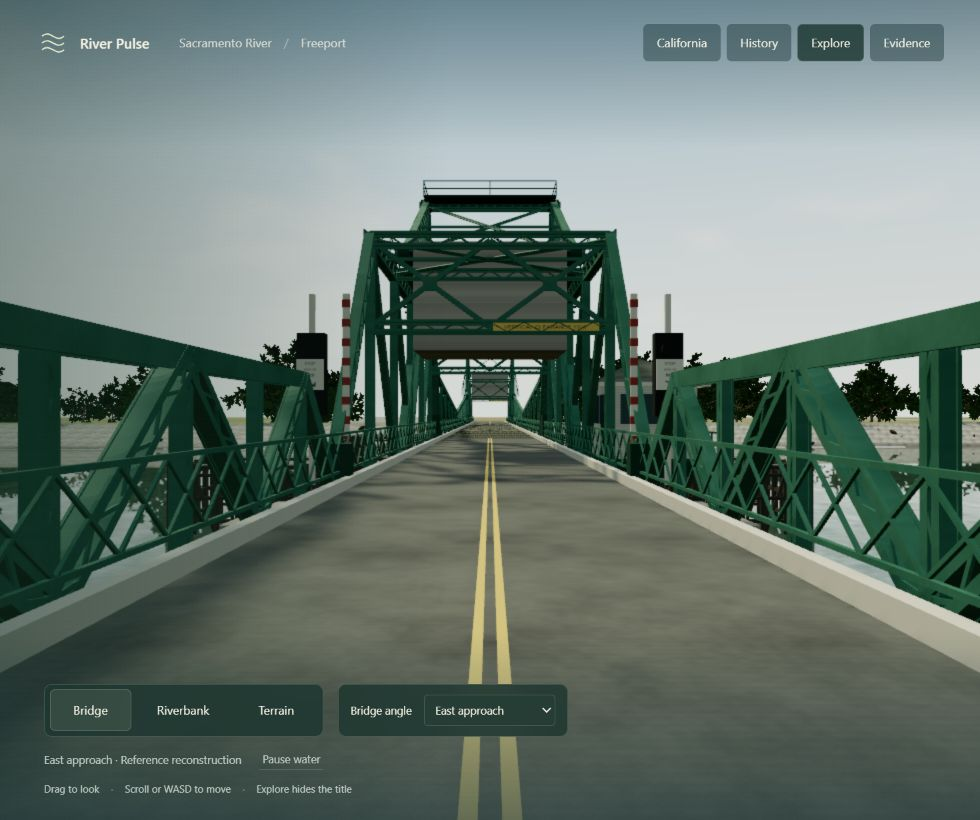
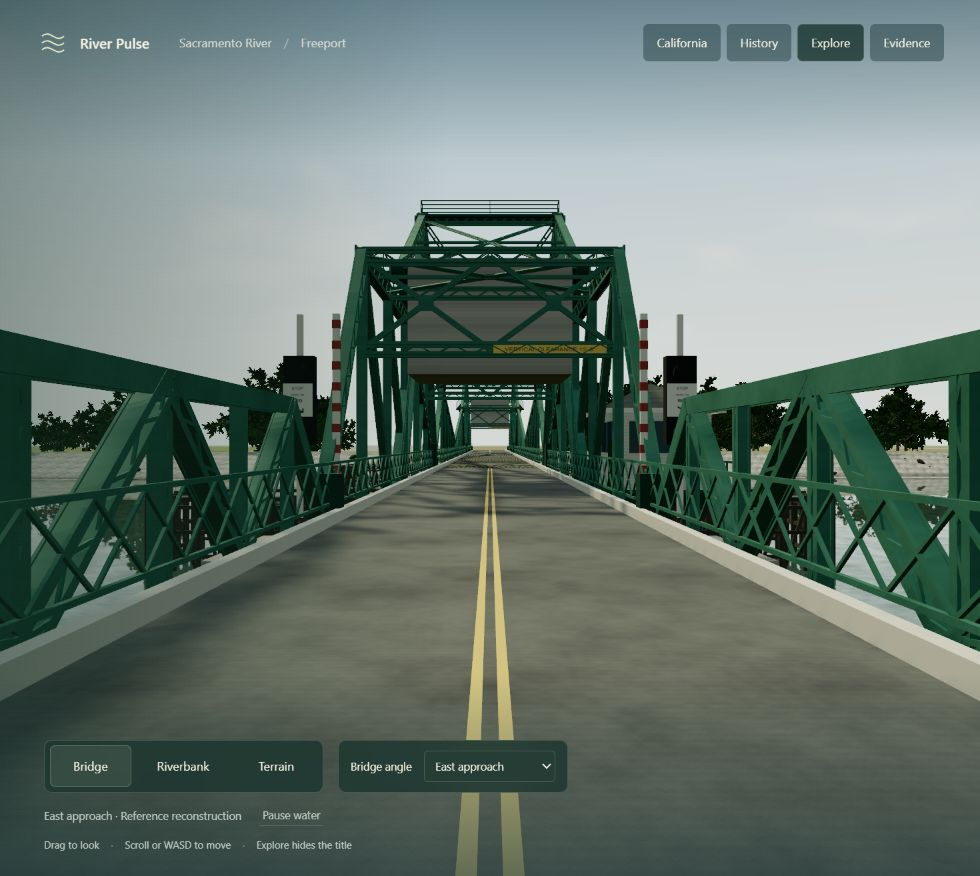
RP15: Correct Freeport upper-link connections

diff --git a/river-pulse/renderer/freeport-bridge.js b/river-pulse/renderer/freeport-bridge.js
@@ -1,6 +1,6 @@
 import * as THREE from "../../vendor/three/three.webgpu.js";
 import { color, mix, positionLocal, smoothstep, texture, vec2 } from "../../vendor/three/three.tsl.js";
-import { FREEPORT_BRIDGE as B } from "./freeport-bridge-layout.js";
+import { FREEPORT_BRIDGE as B, freeportBasculeJoints } from "./freeport-bridge-layout.js";
 
 // One shared, fully three-dimensional closed bridge for every viewpoint.
 // Horizontal envelope follows archived NBI; unsourced sections/heights are photo fits.
@@ -93,7 +93,7 @@ export function createFreeportBridge() {
     for (let i = -1; i <= 1; i++) for (let j = -1; j <= 1; j++)
       pin(x + i * size * 0.31, y + j * size * 0.31, z + 0.034, 0.023, 0.025);
   }
-  function crossBracing(x0, x1, y0, y1) {
+  function crossBracing(x0, x1, y0, y1, header = true) {
     const normal = new THREE.Vector3(y0 - y1, x1 - x0, 0).normalize(),
       along = new THREE.Vector3(x1 - x0, y1 - y0, 0).normalize(),
       middle = [(x0 + x1) / 2, (y0 + y1) / 2, 0];
@@ -117,7 +117,7 @@ export function createFreeportBridge() {
       shape(cylinderGeometry, new THREE.Vector3(...middle).addScaledVector(along, x)
         .addScaledVector(normal, 0.05).add(new THREE.Vector3(0, 0, z)).toArray(), [0.027, 0.035, 0.027],
         new THREE.Quaternion().setFromUnitVectors(up, normal), darkSteel);
-    laced([x0, y0, -B.trussZ], [x0, y0, B.trussZ], 0.34, 0.18, 0.55, Math.PI / 2);
+    if (header) laced([x0, y0, -B.trussZ], [x0, y0, B.trussZ], 0.34, 0.18, 0.55, Math.PI / 2);
   }
   function rail(x0, x1, z, material = steel) {
     for (const y of [B.deckY + 0.32, B.deckY + 1.23]) beam([x0, y, z], [x1, y, z], 0.065, 0.065, material);
@@ -153,6 +153,7 @@ export function createFreeportBridge() {
 
   for (const side of [-1, 1]) {
     const h = side * hinge, outer = side * fixedEnd, n = 6,
+      joints = freeportBasculeJoints(side),
       xAt = i => h + side * B.fixedSpan * i / n,
       // Sloping portal posts at each end; the counterweight frame rises above this.
       topAt = i => i === 0 || i === n ? B.deckY : B.fixedTop;
@@ -169,10 +170,16 @@ export function createFreeportBridge() {
         gusset(x0, B.deckY, z + Math.sign(z) * 0.15);
         if (i > 0) gusset(x0, B.fixedTop, z + Math.sign(z) * 0.15);
       }
-      // Each leaf is a separate tapered Pratt cantilever, low at the center joint.
-      const leafPanels = 6, leafTop = i => B.deckY + 4.5 - 2.7 * i / leafPanels;
+      // The leaf rises from its heel to a forward head joint, then tapers to
+      // the center. Both the tower link and counterweight arm meet that head.
+      const leafPanels = 5, head = joints.forward, rear = joints.rear,
+        leafTop = i => head.y + (B.deckY + 1.8 - head.y) * i / leafPanels,
+        leafX = i => head.x * (1 - i / leafPanels);
+      laced([h, B.deckY, z], [head.x, head.y, z], 0.55, 0.32);
+      laced([h, B.deckY, z], [rear.x, rear.y, z], 0.5, 0.3);
+      laced([rear.x, rear.y, z], [head.x, head.y, z], 0.55, 0.33);
       for (let i = 0; i < leafPanels; i++) {
-        const a = h * (1 - i / leafPanels), b = h * (1 - (i + 1) / leafPanels);
+        const a = leafX(i), b = leafX(i + 1);
         girder([a, leafTop(i), z], [b, leafTop(i + 1), z], 0.35, 0.22);
         laced([a, B.deckY, z], [a, leafTop(i), z], 0.25, 0.18);
         laced([a, leafTop(i), z], [b, B.deckY, z], 0.3, 0.18);
@@ -180,13 +187,14 @@ export function createFreeportBridge() {
       }
       laced([side * 0.045, B.deckY, z], [side * 0.045, leafTop(leafPanels), z], 0.22, 0.2);
       // Triangular fixed tower and articulated heel-trunnion upper links.
-      const toe = h + side * 1.1, peak = h + side * 8.6, tail = h + side * 22.4,
-        weightPin = h + side * 20.5;
+      const toe = joints.towerToe.x, peak = joints.crest.x, tail = joints.towerTail.x,
+        weightPin = rear.x;
       laced([toe, B.deckY, z], [peak, B.towerTop, z], 0.68, 0.36, 0.65);
       laced([tail, B.deckY, z], [peak, B.towerTop, z], 0.54, 0.32, 0.65);
-      laced([toe, B.deckY + 4.5, z], [weightPin, 15.2, z], 0.55, 0.33);
-      laced([peak, B.towerTop, z], [weightPin, 15.2, z], 0.58, 0.34);
-      for (const [x, y, r] of [[h, B.deckY + 0.2, 0.53], [toe, B.deckY + 4.5, 0.42], [peak, B.towerTop, 0.4], [weightPin, 15.2, 0.5]]) {
+      laced([peak, joints.crest.y, z], [weightPin, rear.y, z], 0.58, 0.34);
+      laced([peak, joints.crest.y, z], [head.x, head.y, z], 0.58, 0.34);
+      for (const [x, y, r] of [[h, B.deckY + 0.2, 0.53], [head.x, head.y, 0.42], [peak, joints.crest.y, 0.4], [weightPin, rear.y, 0.5]]) {
+        gusset(x, y, z + Math.sign(z) * 0.18, r * 1.8);
         pin(x, y, z, r, 0.65); pin(x, y, z + Math.sign(z) * 0.4, r * 0.68, 0.08, steel);
       }
       // The rack strut rises from machinery beside the main hinge.
@@ -195,13 +203,13 @@ export function createFreeportBridge() {
       box(h + side * 3, B.deckY + 0.9, z, 2.3, 1.5, 0.72, darkSteel);
       // Catwalk steps, handrails and maintenance ladder follow the upper link.
       for (let i = 0; i <= 24; i++) {
-        const t = i / 24, x = toe + side * 19.4 * t, y = B.deckY + 4.5 + 4.5 * t;
+        const t = i / 24, x = head.x + (rear.x - head.x) * t, y = head.y + (rear.y - head.y) * t;
         box(x, y, z + Math.sign(z) * 0.5, 0.45, 0.06, 0.65, darkSteel);
       }
-      beam([toe, B.deckY + 5.5, z + Math.sign(z) * 0.72], [weightPin, 16.2, z + Math.sign(z) * 0.72], 0.055);
+      beam([head.x, head.y + 1, z + Math.sign(z) * 0.72], [weightPin, rear.y + 1, z + Math.sign(z) * 0.72], 0.055);
       for (let i = 0; i < 9; i++) {
-        const t = i / 8; beam([toe + side * 19.4 * t, B.deckY + 4.5 + 4.5 * t, z + Math.sign(z) * 0.72],
-          [toe + side * 19.4 * t, B.deckY + 5.5 + 4.5 * t, z + Math.sign(z) * 0.72], 0.045);
+        const t = i / 8, x = head.x + (rear.x - head.x) * t, y = head.y + (rear.y - head.y) * t;
+        beam([x, y, z + Math.sign(z) * 0.72], [x, y + 1, z + Math.sign(z) * 0.72], 0.045);
       }
     }
     for (let i = 1; i < n - 1; i++) {
@@ -220,19 +228,22 @@ export function createFreeportBridge() {
         box(x, (lower + B.fixedTop) / 2, z + B.trussZ / 2, 0.07, 0.46, 0.46);
       }
     }
-    const peak = h + side * 8.6, weightX = h + side * 20.5;
-    crossBracing(peak, weightX, B.towerTop, 15.2);
+    const peak = joints.crest.x, weightX = joints.rear.x;
+    crossBracing(peak, weightX, joints.crest.y, joints.rear.y, false);
+    crossBracing(peak, joints.forward.x, joints.crest.y, joints.forward.y, false);
+    laced([joints.forward.x, joints.forward.y, -B.trussZ],
+      [joints.forward.x, joints.forward.y, B.trussZ], 0.3, 0.22, 0.55, Math.PI / 2);
     laced([peak, B.towerTop, -B.trussZ], [peak, B.towerTop, B.trussZ], 0.38, 0.3, 0.55, Math.PI / 2);
     // Massive exposed concrete weight suspended above the narrow road.
     box(weightX, 12.9, 0, 5.7, 4.6, 6.5, concrete);
     for (const z of [-3.32, 3.32]) box(weightX, 14.95, z, 6.0, 0.4, 0.17);
-    box(peak, B.towerTop + 0.12, 0, 3.6, 0.09, 7.8, darkSteel);
-    for (const x of [peak - side * 1.8, peak + side * 1.8]) {
+    box(peak, B.towerTop + 0.12, 0, 0.8, 0.09, 7.8, darkSteel);
+    for (const x of [peak - 0.4, peak + 0.4]) {
       for (const y of [B.towerTop + 0.55, B.towerTop + 1]) beam([x, y, -3.9], [x, y, 3.9], 0.05);
       for (const z of [-3.9, 0, 3.9]) beam([x, B.towerTop + 0.1, z], [x, B.towerTop + 1, z], 0.045);
     }
     for (const z of [-3.9, 3.9]) for (const y of [B.towerTop + 0.55, B.towerTop + 1])
-      beam([peak - side * 1.8, y, z], [peak + side * 1.8, y, z], 0.05);
+      beam([peak - 0.4, y, z], [peak + 0.4, y, z], 0.05);
     addPier(h, true); addPier(outer, false);
   }
 

diff --git a/river-pulse/renderer/freeport-bridge-layout.js b/river-pulse/renderer/freeport-bridge-layout.js
@@ -17,6 +17,20 @@ export const FREEPORT_BRIDGE = Object.freeze({
   source: "https://historicbridges.org/california/freeportbridge/nbisheet.pdf",
 });
 
+// Shared endpoints fitted to the user's aerial reference, not surveyed pivots.
+// Positive side is the east assembly; inward points toward the center joint.
+export function freeportBasculeJoints(side) {
+  const h = side * FREEPORT_BRIDGE.mainSpan / 2, y = FREEPORT_BRIDGE.deckY;
+  return {
+    heel: { x: h, y },
+    forward: { x: h - side * 10.4, y: y + 6.2 },
+    crest: { x: h + side * 8.6, y: FREEPORT_BRIDGE.towerTop },
+    rear: { x: h + side * 20.5, y: 15.2 },
+    towerToe: { x: h + side * 1.1, y },
+    towerTail: { x: h + side * 22.4, y },
+  };
+}
+
 export function bridgeToWorld(x, y, z) {
   const b = FREEPORT_BRIDGE, c = Math.cos(b.yaw), s = Math.sin(b.yaw);
   return { x: b.x + c * x + s * z, y, z: b.z - s * x + c * z };
@@ -41,7 +55,7 @@ export const FREEPORT_BRIDGE_ANGLES = {
   east: { ...bridgeCamera(91, 7.9, 0, 0, 8.4), label: "East approach" },
   west: { ...bridgeCamera(-83, 7.9, 0, 0, 8.4), label: "West approach" },
   underside: { ...bridgeCamera(59, 1.6, 31, 61, 6.2, 0), label: "Piers and underside" },
-  above: { ...bridgeCamera(65, 70, 75, 0, 7, 0), label: "Above the bridge" },
+  above: { ...bridgeCamera(0, 110, -150, 0, 7, 0), label: "Above the bridge" },
 };
 
 export function freeportBridgeCamera(angle, portrait = false) {
@@ -50,9 +64,9 @@ export function freeportBridgeCamera(angle, portrait = false) {
   if (angle === "above") return { ...view, ...bridgeCamera(155, 125, 60, 0, 7, 0) };
   if (angle === "underside") return { ...view, ...bridgeCamera(64, 1.6, 31, 66, 4.5, 0) };
   if (angle !== "east" && angle !== "west") {
-    // Portrait frames the near counterweight assembly instead of clipping it offscreen.
+    // Include both the forward leaf-head joint and rear counterweight in portrait.
     const side = angle.includes("west") ? -1 : 1;
-    return { ...view, target: bridgeToWorld(side * 57, 10.5, 0) };
+    return { ...view, target: bridgeToWorld(side * 40, 12, 0) };
   }
   return { ...view };
 }

diff --git a/docs/roadmap/tasks/RP15-freeport-upper-link-connections.md b/docs/roadmap/tasks/RP15-freeport-upper-link-connections.md
@@ -1,0 +1,28 @@
+# RP15: Correct Freeport upper-link connections
+
+## Scope
+
+The user supplied an aerial photograph and identified that the top members still
+connect incorrectly. Correct the connection topology on both bascule assemblies.
+Retain the existing scene, controls, river data and terrain. Work locally.
+
+## Approach
+
+Use the user-supplied aerial photograph to distinguish the tower crest, forward
+raised leaf joint, heel and rear counterweight joint. Connect the crest to the
+forward joint and rear joint, and run the moving counterweight arm to the forward
+joint. Refit the first leaf panels and catwalk to those common endpoints. Keep the
+standing tower frame separate from the articulated links and roof bracing.
+Narrow the crest walkway and face the desktop overhead camera broadly toward the
+tender-house side, matching the supplied photo's useful comparison direction.
+Member dimensions and elevations remain photo-fitted estimates. Do not bundle the
+user photograph or claim a surveyed model or operating mechanism simulation.
+
+## Checks
+
+- `node --test pipeline/tests/sacramento-scene.test.mjs pipeline/tests/river-pulse-sacramento.test.mjs pipeline/tests/california-overview.test.mjs`
+- `node pipeline/validate-river-packages.mjs`
+- `npm run test:build`
+- Browser: compare bank, approach, overhead and underside views; phone framing;
+  no console errors. Save updated local previews.
+- `git diff --check`

diff --git a/docs/river-pulse/sacramento-freeport-scene.md b/docs/river-pulse/sacramento-freeport-scene.md
@@ -1,4 +1,4 @@
-# Sacramento at Freeport — RP13 / RP14
+# Sacramento at Freeport — RP13 / RP14 / RP15
 
 The user's next step after the accepted California overview is the first detailed
 Sacramento place. Freeport already supplies a pinned USGS discharge series and separate
@@ -32,6 +32,14 @@ and [upper links/platform](https://historicbridges.org/california/freeportbridge
 The roof X members have cross ties, center plates and transverse struts; header lacing
 faces vertically, while the portal sway diagonals use angle members. The tower platform
 has a floor and two-tier rails. These component dimensions remain photo-fitted.
+
+RP15 uses the user's supplied aerial photo to correct upper-link connections.
+The tower crest links both forward to the raised leaf-head joint and back to the
+counterweight joint. A long moving arm connects the latter two joints; the lifting
+truss rises from its heel to the forward head before tapering toward the center.
+Shared endpoints keep members, pivot plates, pins and catwalk aligned on both
+assemblies. Roof bracing follows both upper-link slopes and the crest walkway is
+narrow. The photo is not bundled; component positions remain visual estimates.
 
 The [archived 2012 NBI sheet](https://historicbridges.org/california/freeportbridge/nbisheet.pdf)
 provides total length 198.9 m, main span 68.9 m, roadway 6.4 m and deck 6.8 m.

diff --git a/docs/HANDOFF.md b/docs/HANDOFF.md
@@ -1,5 +1,20 @@
 # Handoff — 2026-10-04
 
+## Freeport upper-link connections — RP15
+
+The user's aerial reference exposed a missing forward tower link. `task/RP15`
+defines shared heel, forward leaf-head, tower-crest and rear counterweight endpoints.
+Both upper links and the long moving counterweight arm now meet those common joints;
+the first leaf panels and catwalk follow them. Upper roof bracing covers both slopes,
+and the crest walkway is narrow. The desktop overhead angle faces the bridge broadly
+from the tender-house side for comparison with the supplied image.
+These are photo-fitted component positions, not a surveyed mechanism or simulation.
+The user photograph is referenced by filename only and is not bundled. River data,
+water interpretation and geographic terrain are unchanged. No push or merge.
+Verification: 11 focused tests, river package validation and full build pass. Bank,
+both road approaches, underside and overhead were inspected, plus portrait overhead
+and bank framing. No console errors or phone horizontal overflow; previews updated.
+
 ## Freeport bridge reconstruction — RP14
 
 `task/RP14` replaces RP13's generic bridge with detailed laced/built-up green steel,
